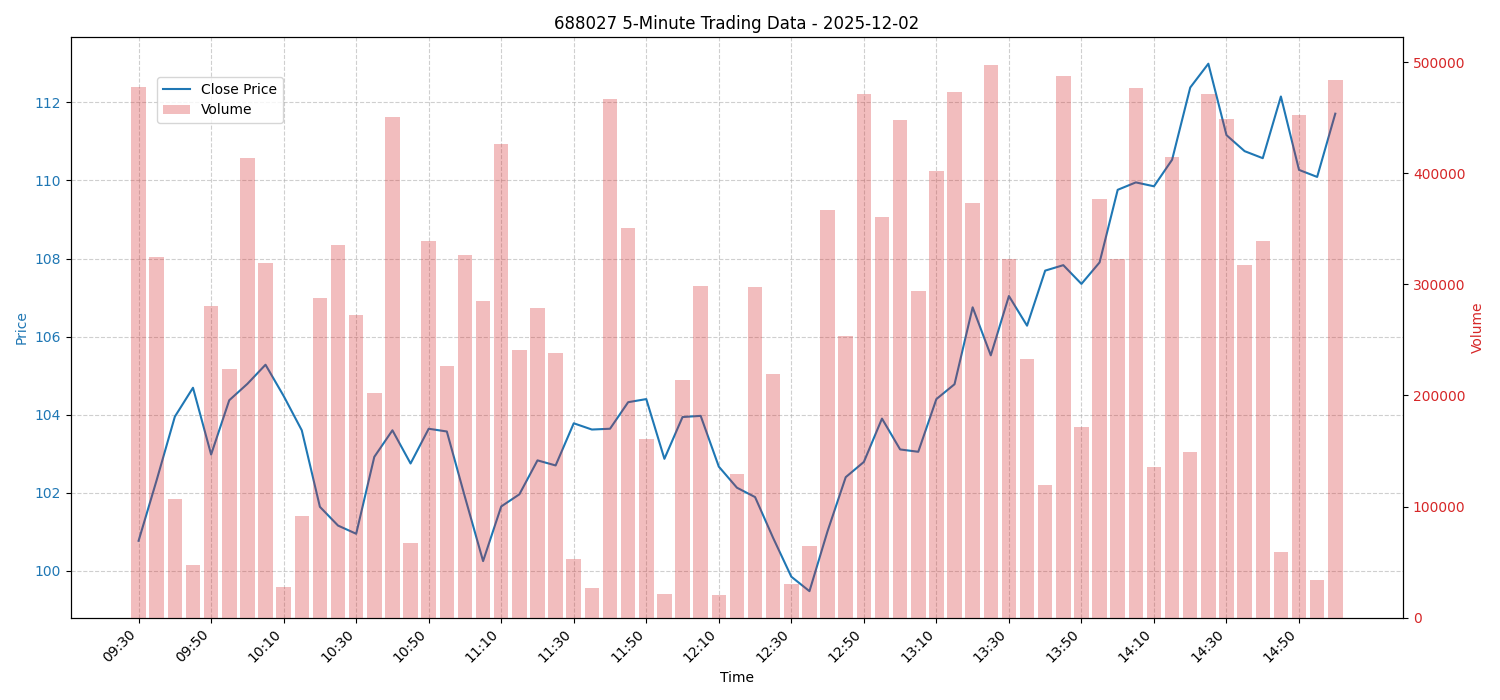
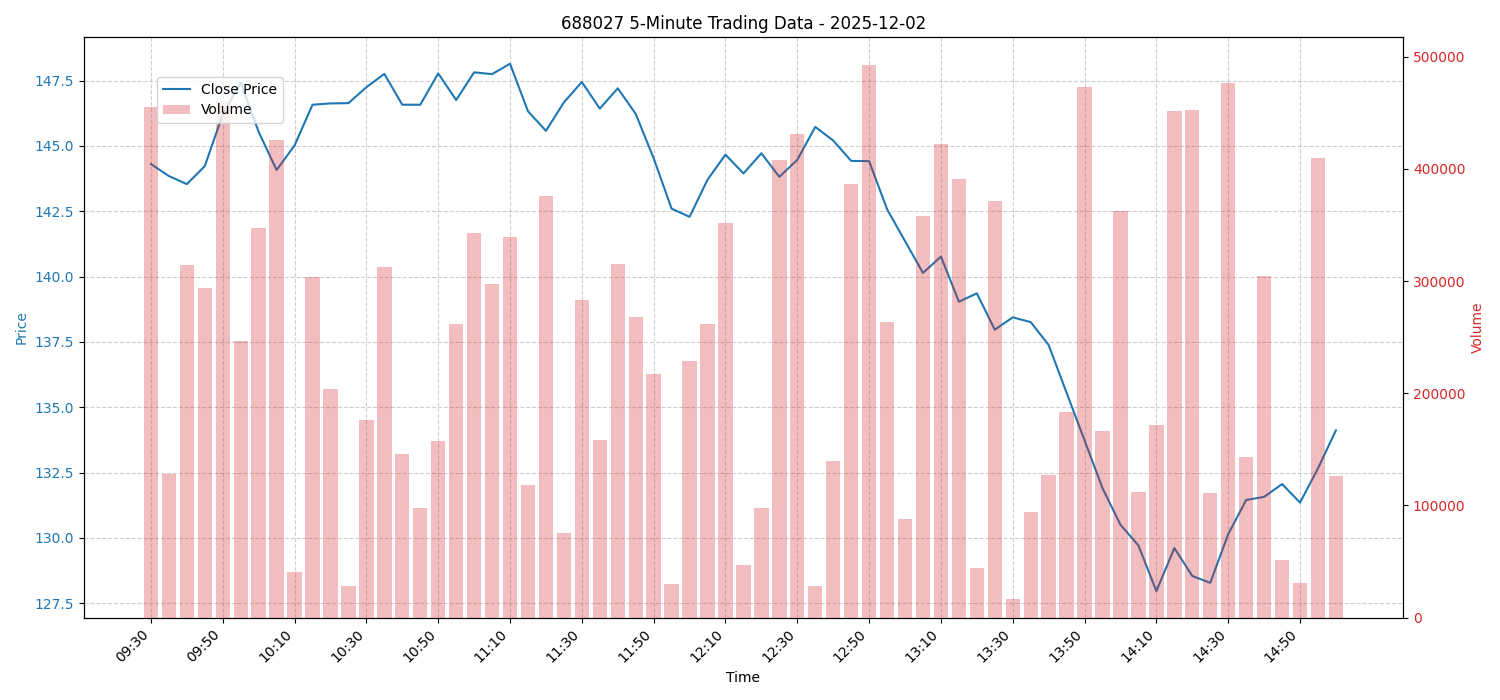
Update generated 1202.md and 1202.png

diff --git a/1202.md b/1202.md
@@ -4,70 +4,70 @@
 
 | time   |   open |   high |    low |   close |   volume |    turnover |   change_percent |
 |:-------|-------:|-------:|-------:|--------:|---------:|------------:|-----------------:|
-| 09:30  | 100.15 | 101.71 |  99.86 |  100.77 |   478144 | 4.80337e+07 |             0.62 |
-| 09:35  | 100.77 | 102.48 | 100.71 |  102.33 |   324826 | 3.29858e+07 |             1.55 |
-| 09:40  | 102.33 | 104.01 | 101.69 |  103.95 |   106509 | 1.09852e+07 |             1.58 |
-| 09:45  | 103.95 | 105.35 | 103.14 |  104.69 |    47281 | 4.93225e+06 |             0.71 |
-| 09:50  | 104.69 | 105.38 | 102.94 |  102.98 |   280602 | 2.91362e+07 |            -1.63 |
-| 09:55  | 102.98 | 105.17 | 102.62 |  104.37 |   223468 | 2.3168e+07  |             1.35 |
-| 10:00  | 104.37 | 105.04 | 104.33 |  104.79 |   414229 | 4.3319e+07  |             0.4  |
-| 10:05  | 104.79 | 105.99 | 104.02 |  105.28 |   319426 | 3.35499e+07 |             0.47 |
-| 10:10  | 105.28 | 105.28 | 104.42 |  104.48 |    27771 | 2.9126e+06  |            -0.75 |
-| 10:15  | 104.48 | 104.49 | 103.22 |  103.6  |    91867 | 9.55775e+06 |            -0.85 |
-| 10:20  | 103.6  | 104.34 | 100.78 |  101.64 |   288081 | 2.95626e+07 |            -1.89 |
-| 10:25  | 101.64 | 101.67 | 100.74 |  101.16 |   335806 | 3.40503e+07 |            -0.48 |
-| 10:30  | 101.16 | 101.59 | 100.58 |  100.95 |   272522 | 2.75392e+07 |            -0.2  |
-| 10:35  | 100.95 | 103.2  | 100.66 |  102.92 |   202554 | 2.0647e+07  |             1.95 |
-| 10:40  | 102.92 | 104.23 | 102.71 |  103.6  |   450553 | 4.65241e+07 |             0.67 |
-| 10:45  | 103.6  | 104.22 | 102.5  |  102.75 |    67513 | 6.96574e+06 |            -0.82 |
-| 10:50  | 102.75 | 104.01 | 102.34 |  103.64 |   339563 | 3.50414e+07 |             0.87 |
-| 10:55  | 103.64 | 104.21 | 103.22 |  103.57 |   226583 | 2.34749e+07 |            -0.07 |
-| 11:00  | 103.57 | 103.65 | 101.25 |  101.89 |   326559 | 3.3547e+07  |            -1.62 |
-| 11:05  | 101.89 | 102.18 |  99.7  |  100.25 |   284723 | 2.87766e+07 |            -1.61 |
-| 11:10  | 100.25 | 102.52 |  99.47 |  101.65 |   426070 | 4.30107e+07 |             1.4  |
-| 11:15  | 101.65 | 102.35 | 101.45 |  101.96 |   241336 | 2.45695e+07 |             0.31 |
-| 11:20  | 101.96 | 103.43 | 101.19 |  102.83 |   278956 | 2.85636e+07 |             0.85 |
-| 11:25  | 102.83 | 102.86 | 101.98 |  102.7  |   238464 | 2.45053e+07 |            -0.12 |
-| 11:30  | 102.7  | 104.6  | 101.91 |  103.78 |    52768 | 5.44774e+06 |             1.05 |
-| 11:35  | 103.78 | 104.56 | 102.99 |  103.62 |    27051 | 2.80522e+06 |            -0.15 |
-| 11:40  | 103.62 | 103.67 | 102.71 |  103.64 |   467400 | 4.8437e+07  |             0.01 |
-| 11:45  | 103.64 | 105.25 | 102.82 |  104.32 |   350660 | 3.64615e+07 |             0.66 |
-| 11:50  | 104.32 | 104.92 | 103.88 |  104.4  |   161182 | 1.68209e+07 |             0.07 |
-| 11:55  | 104.4  | 104.4  | 102.25 |  102.87 |    21633 | 2.24189e+06 |            -1.47 |
-| 12:00  | 102.87 | 104.86 | 102.83 |  103.94 |   214300 | 2.21595e+07 |             1.04 |
-| 12:05  | 103.94 | 104.68 | 103.42 |  103.97 |   298145 | 3.09937e+07 |             0.03 |
-| 12:10  | 103.97 | 104.35 | 102.36 |  102.67 |    19920 | 2.0581e+06  |            -1.25 |
-| 12:15  | 102.67 | 103.44 | 101.45 |  102.13 |   129127 | 1.32225e+07 |            -0.52 |
-| 12:20  | 102.13 | 102.27 | 101.75 |  101.89 |   298037 | 3.04031e+07 |            -0.24 |
-| 12:25  | 101.89 | 102.51 | 100.24 |  100.84 |   219097 | 2.22094e+07 |            -1.03 |
-| 12:30  | 100.84 | 101.64 |  99.41 |   99.85 |    30105 | 3.02096e+06 |            -0.99 |
-| 12:35  |  99.85 |  99.94 |  99.34 |   99.48 |    64300 | 6.4085e+06  |            -0.37 |
-| 12:40  |  99.48 | 101.77 |  98.99 |  101.02 |   367255 | 3.68172e+07 |             1.55 |
-| 12:45  | 101.02 | 102.67 | 100.71 |  102.4  |   253813 | 2.58147e+07 |             1.36 |
-| 12:50  | 102.4  | 103.61 | 101.61 |  102.79 |   471229 | 4.83456e+07 |             0.39 |
-| 12:55  | 102.79 | 104.62 | 101.99 |  103.9  |   360996 | 3.73074e+07 |             1.08 |
-| 13:00  | 103.9  | 104.39 | 103.09 |  103.11 |   448265 | 4.63973e+07 |            -0.76 |
-| 13:05  | 103.11 | 103.26 | 102.31 |  103.05 |   293738 | 3.02789e+07 |            -0.05 |
-| 13:10  | 103.05 | 104.86 | 102.45 |  104.4  |   401817 | 4.16798e+07 |             1.31 |
-| 13:15  | 104.4  | 105.31 | 103.81 |  104.78 |   473529 | 4.95282e+07 |             0.37 |
-| 13:20  | 104.78 | 107    | 104.16 |  106.75 |   373680 | 3.95241e+07 |             1.88 |
-| 13:25  | 106.75 | 106.93 | 104.77 |  105.52 |   497657 | 5.28192e+07 |            -1.16 |
-| 13:30  | 105.52 | 107.26 | 105.09 |  107.04 |   322649 | 3.42911e+07 |             1.45 |
-| 13:35  | 107.04 | 107.72 | 105.55 |  106.28 |   232728 | 2.48227e+07 |            -0.72 |
-| 13:40  | 106.28 | 108.04 | 105.37 |  107.69 |   119108 | 1.27428e+07 |             1.33 |
-| 13:45  | 107.69 | 108.5  | 107.11 |  107.83 |   487975 | 5.25845e+07 |             0.12 |
-| 13:50  | 107.83 | 107.92 | 106.38 |  107.35 |   171432 | 1.84439e+07 |            -0.45 |
-| 13:55  | 107.35 | 108.52 | 106.92 |  107.9  |   376878 | 4.05602e+07 |             0.51 |
-| 14:00  | 107.9  | 110    | 107.79 |  109.76 |   322766 | 3.51263e+07 |             1.73 |
-| 14:05  | 109.76 | 110.01 | 109.67 |  109.95 |   476851 | 5.23842e+07 |             0.17 |
-| 14:10  | 109.95 | 110.43 | 108.89 |  109.85 |   135872 | 1.49323e+07 |            -0.09 |
-| 14:15  | 109.85 | 111.48 | 109.57 |  110.53 |   415094 | 4.57387e+07 |             0.61 |
-| 14:20  | 110.53 | 112.48 | 109.77 |  112.38 |   149514 | 1.66636e+07 |             1.67 |
-| 14:25  | 112.38 | 113.84 | 111.43 |  112.99 |   471512 | 5.31324e+07 |             0.55 |
-| 14:30  | 112.99 | 113.24 | 110.62 |  111.16 |   449096 | 5.0333e+07  |            -1.62 |
-| 14:35  | 111.16 | 112.01 | 110.48 |  110.75 |   317758 | 3.52573e+07 |            -0.36 |
-| 14:40  | 110.75 | 111.34 | 109.61 |  110.57 |   338915 | 3.75042e+07 |            -0.17 |
-| 14:45  | 110.57 | 112.19 | 109.88 |  112.15 |    59205 | 6.59283e+06 |             1.43 |
-| 14:50  | 112.15 | 113.05 | 109.92 |  110.27 |   452490 | 5.03198e+07 |            -1.68 |
-| 14:55  | 110.27 | 111.12 | 109.24 |  110.09 |    33885 | 3.73332e+06 |            -0.16 |
-| 15:00  | 110.09 | 111.79 | 109.27 |  111.71 |   483699 | 5.36401e+07 |             1.47 |
+| 09:30  | 144.31 | 144.97 | 144    |  144.31 |   455226 | 6.56946e+07 |             0    |
+| 09:35  | 144.31 | 144.32 | 143.78 |  143.85 |   128254 | 1.84793e+07 |            -0.32 |
+| 09:40  | 143.85 | 144.25 | 142.67 |  143.54 |   314324 | 4.5168e+07  |            -0.22 |
+| 09:45  | 143.54 | 144.64 | 143.43 |  144.23 |   293421 | 4.22187e+07 |             0.48 |
+| 09:50  | 144.23 | 146.82 | 143.56 |  146.21 |   460883 | 6.6929e+07  |             1.38 |
+| 09:55  | 146.21 | 148.12 | 145.92 |  147.42 |   246660 | 3.62132e+07 |             0.82 |
+| 10:00  | 147.42 | 147.68 | 144.72 |  145.54 |   346948 | 5.08209e+07 |            -1.27 |
+| 10:05  | 145.54 | 145.99 | 143.15 |  144.08 |   425976 | 6.16856e+07 |            -1.01 |
+| 10:10  | 144.08 | 145.83 | 143.38 |  145.02 |    40739 | 5.88876e+06 |             0.66 |
+| 10:15  | 145.02 | 147.49 | 144.94 |  146.58 |   303444 | 4.42431e+07 |             1.08 |
+| 10:20  | 146.58 | 146.86 | 146.02 |  146.63 |   204011 | 2.99091e+07 |             0.03 |
+| 10:25  | 146.63 | 147.19 | 145.69 |  146.64 |    27818 | 4.07905e+06 |             0.01 |
+| 10:30  | 146.64 | 147.62 | 146.41 |  147.25 |   176172 | 2.58879e+07 |             0.42 |
+| 10:35  | 147.25 | 148.16 | 146.27 |  147.76 |   312708 | 4.61257e+07 |             0.34 |
+| 10:40  | 147.76 | 147.99 | 146.33 |  146.58 |   145677 | 2.14387e+07 |            -0.8  |
+| 10:45  | 146.58 | 146.69 | 146.23 |  146.58 |    97732 | 1.43252e+07 |             0    |
+| 10:50  | 146.58 | 147.8  | 145.7  |  147.78 |   157550 | 2.31875e+07 |             0.82 |
+| 10:55  | 147.78 | 148.49 | 145.83 |  146.76 |   261494 | 3.8509e+07  |            -0.69 |
+| 11:00  | 146.76 | 148.77 | 145.95 |  147.82 |   343236 | 5.05544e+07 |             0.72 |
+| 11:05  | 147.82 | 148.56 | 147.62 |  147.75 |   297025 | 4.38955e+07 |            -0.05 |
+| 11:10  | 147.75 | 149.08 | 147.29 |  148.15 |   338860 | 5.01341e+07 |             0.27 |
+| 11:15  | 148.15 | 149.06 | 145.49 |  146.33 |   118583 | 1.74604e+07 |            -1.23 |
+| 11:20  | 146.33 | 146.44 | 144.65 |  145.58 |   375482 | 5.48049e+07 |            -0.51 |
+| 11:25  | 145.58 | 147.34 | 145.24 |  146.67 |    75664 | 1.10567e+07 |             0.75 |
+| 11:30  | 146.67 | 148.21 | 146.21 |  147.45 |   283294 | 4.16617e+07 |             0.53 |
+| 11:35  | 147.45 | 147.99 | 145.78 |  146.43 |   158564 | 2.32992e+07 |            -0.69 |
+| 11:40  | 146.43 | 147.54 | 146.21 |  147.21 |   315599 | 4.63353e+07 |             0.53 |
+| 11:45  | 147.21 | 147.81 | 145.32 |  146.23 |   268330 | 3.93693e+07 |            -0.66 |
+| 11:50  | 146.23 | 147.03 | 143.95 |  144.53 |   217276 | 3.15882e+07 |            -1.16 |
+| 11:55  | 144.53 | 144.69 | 142.42 |  142.6  |    29741 | 4.26982e+06 |            -1.34 |
+| 12:00  | 142.6  | 142.73 | 141.34 |  142.29 |   228458 | 3.25432e+07 |            -0.22 |
+| 12:05  | 142.29 | 144.28 | 141.55 |  143.71 |   261430 | 3.73851e+07 |             1    |
+| 12:10  | 143.71 | 145.59 | 143.07 |  144.67 |   351933 | 5.07453e+07 |             0.67 |
+| 12:15  | 144.67 | 144.79 | 143.48 |  143.95 |    46784 | 6.75142e+06 |            -0.5  |
+| 12:20  | 143.95 | 145.24 | 143.02 |  144.72 |    97402 | 1.40586e+07 |             0.53 |
+| 12:25  | 144.72 | 144.76 | 143.43 |  143.82 |   407630 | 5.88084e+07 |            -0.62 |
+| 12:30  | 143.82 | 145.22 | 143.74 |  144.47 |   430825 | 6.21004e+07 |             0.45 |
+| 12:35  | 144.47 | 146.35 | 143.49 |  145.73 |    28223 | 4.09518e+06 |             0.88 |
+| 12:40  | 145.73 | 145.95 | 144.82 |  145.21 |   139458 | 2.0287e+07  |            -0.36 |
+| 12:45  | 145.21 | 145.66 | 143.46 |  144.43 |   386793 | 5.60138e+07 |            -0.54 |
+| 12:50  | 144.43 | 144.44 | 144.1  |  144.42 |   492592 | 7.11415e+07 |            -0    |
+| 12:55  | 144.42 | 145.12 | 141.71 |  142.58 |   263590 | 3.78247e+07 |            -1.28 |
+| 13:00  | 142.58 | 142.66 | 141.04 |  141.36 |    87785 | 1.24625e+07 |            -0.86 |
+| 13:05  | 141.36 | 142.32 | 139.62 |  140.14 |   358047 | 5.03938e+07 |            -0.86 |
+| 13:10  | 140.14 | 141.65 | 140    |  140.77 |   421920 | 5.92609e+07 |             0.46 |
+| 13:15  | 140.77 | 141.54 | 138.92 |  139.04 |   390787 | 5.46731e+07 |            -1.24 |
+| 13:20  | 139.04 | 139.81 | 138.5  |  139.36 |    43943 | 6.11687e+06 |             0.24 |
+| 13:25  | 139.36 | 139.61 | 137.56 |  137.97 |   370925 | 5.14355e+07 |            -1    |
+| 13:30  | 137.97 | 139.39 | 137.44 |  138.44 |    16674 | 2.30441e+06 |             0.34 |
+| 13:35  | 138.44 | 138.63 | 138.01 |  138.26 |    93916 | 1.29931e+07 |            -0.13 |
+| 13:40  | 138.26 | 138.72 | 136.92 |  137.38 |   126971 | 1.74992e+07 |            -0.64 |
+| 13:45  | 137.38 | 137.81 | 135.43 |  135.55 |   183330 | 2.50177e+07 |            -1.34 |
+| 13:50  | 135.55 | 135.88 | 133.23 |  133.73 |   472586 | 6.36286e+07 |            -1.34 |
+| 13:55  | 133.73 | 134.57 | 131.35 |  131.9  |   166501 | 2.21145e+07 |            -1.37 |
+| 14:00  | 131.9  | 132.12 | 130.07 |  130.5  |   362463 | 4.75551e+07 |            -1.07 |
+| 14:05  | 130.5  | 130.85 | 129.12 |  129.71 |   112085 | 1.45826e+07 |            -0.6  |
+| 14:10  | 129.71 | 129.95 | 127.62 |  127.96 |   171385 | 2.20801e+07 |            -1.35 |
+| 14:15  | 127.96 | 130.45 | 127.89 |  129.61 |   451204 | 5.8107e+07  |             1.29 |
+| 14:20  | 129.61 | 130.05 | 128.38 |  128.54 |   452658 | 5.84269e+07 |            -0.82 |
+| 14:25  | 128.54 | 129.28 | 127.98 |  128.28 |   111116 | 1.42685e+07 |            -0.2  |
+| 14:30  | 128.28 | 130.59 | 128.22 |  130.14 |   476866 | 6.16154e+07 |             1.45 |
+| 14:35  | 130.14 | 131.53 | 130.03 |  131.45 |   143393 | 1.87547e+07 |             1    |
+| 14:40  | 131.45 | 132.16 | 131.13 |  131.57 |   304618 | 4.00598e+07 |             0.09 |
+| 14:45  | 131.57 | 132.5  | 130.86 |  132.06 |    51373 | 6.77165e+06 |             0.37 |
+| 14:50  | 132.06 | 132.83 | 130.75 |  131.35 |    30573 | 4.02652e+06 |            -0.54 |
+| 14:55  | 131.35 | 133.39 | 131.33 |  132.66 |   409659 | 5.40758e+07 |             1    |
+| 15:00  | 132.66 | 134.59 | 131.98 |  134.12 |   125915 | 1.67954e+07 |             1.1  |
